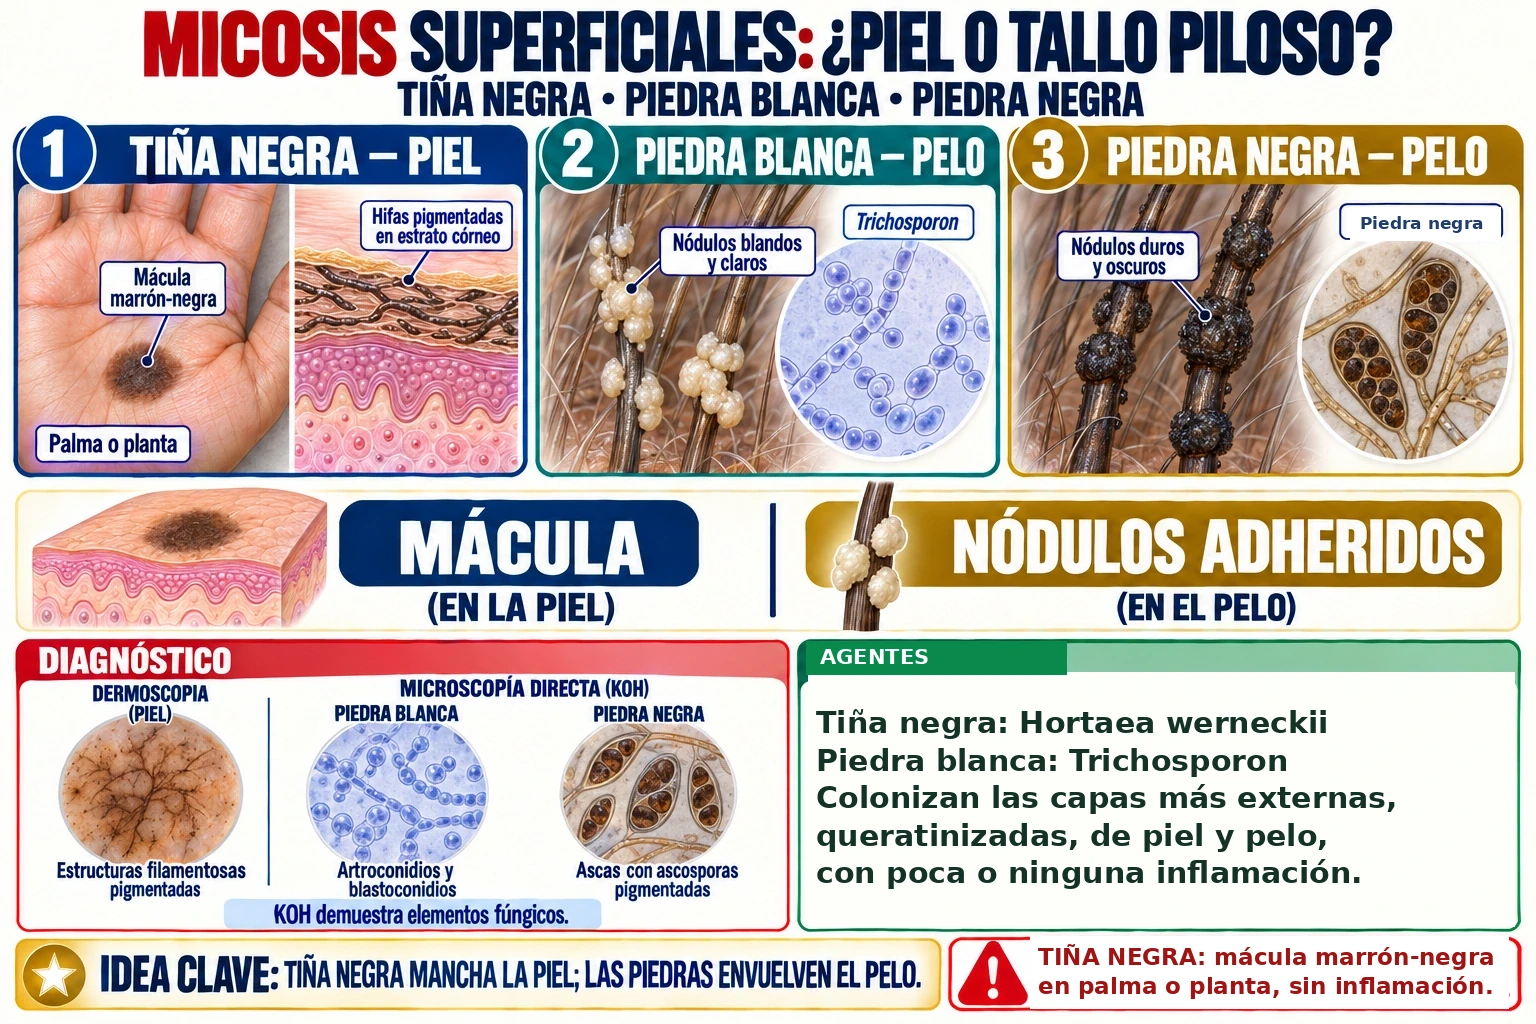
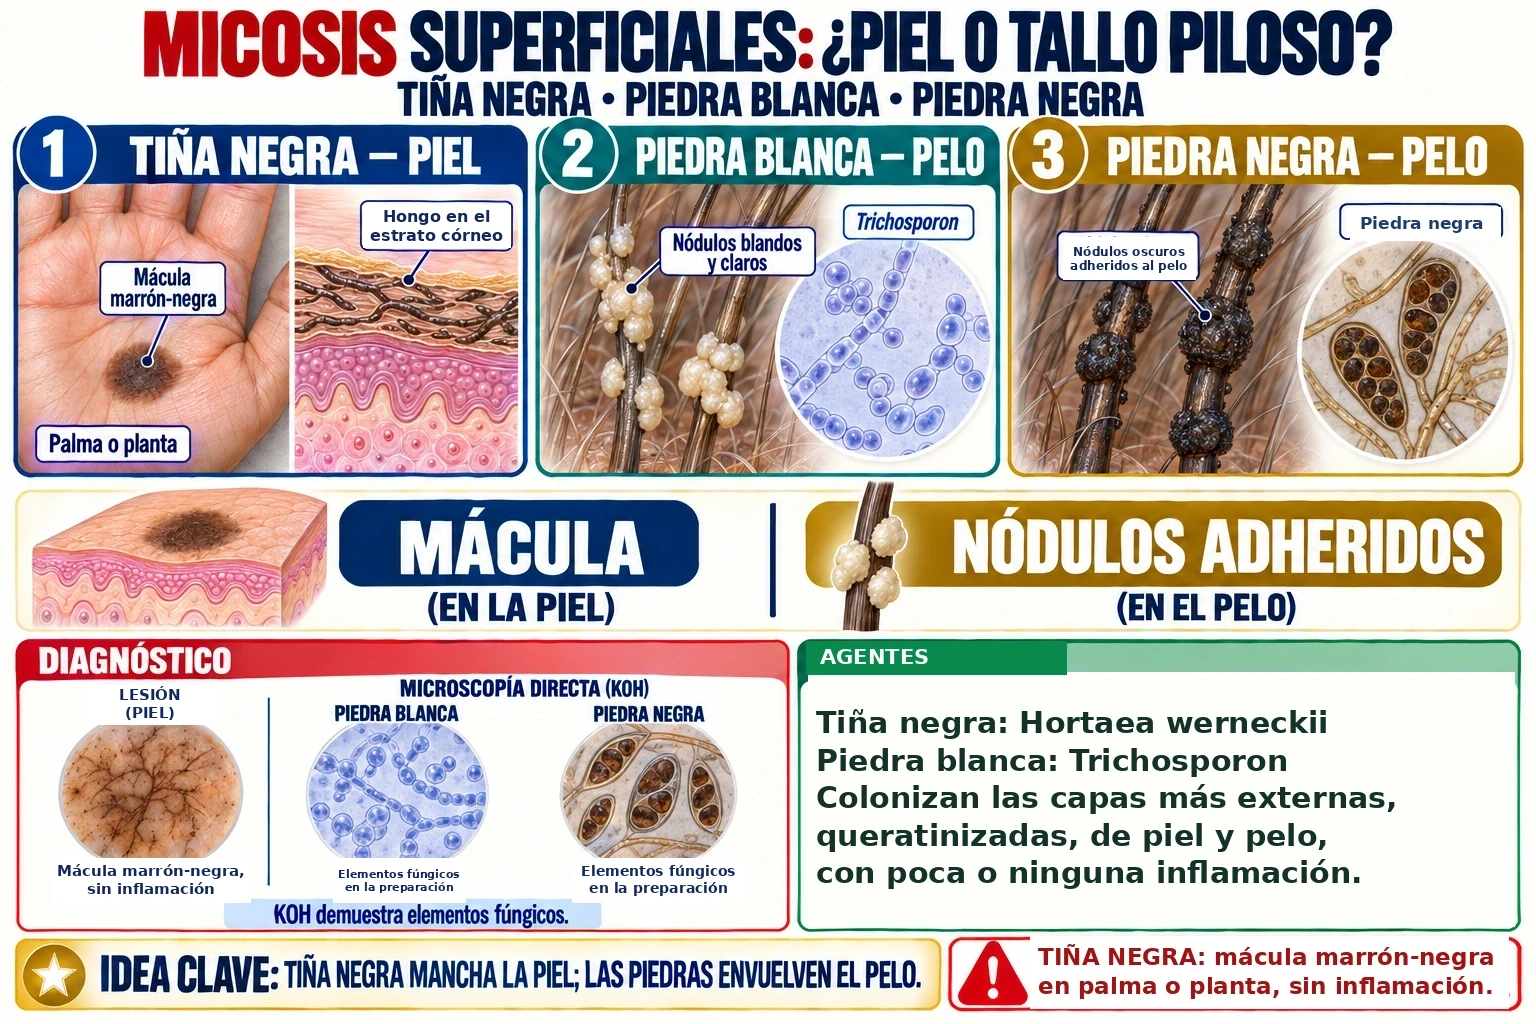
Dermatología: querión sem a conclusão de drenagem; fig. 19 sem piedra negra/dermatoscopia sem fonte; ESCOPO com Tarefa
Retira «el drenaje no forma parte de ese manejo» (o caso do Atlas não a comprova), neutraliza na imagem 19
o agente da piedra negra, as descrições de ascas e hifas e a dermatoscopia, mantendo a imagem; registra a
tarefa em coordination/tasks.json.

Claude-Session: https://claude.ai/code/session_01DevSfM7zdgXiapR5wFfV6N

diff --git a/Repasso-Med-Site--main/Atual - Copia/netlify/functions/materias-privadas/dermatologia.html b/Repasso-Med-Site--main/Atual - Copia/netlify/functions/materias-privadas/dermatologia.html
@@ -2804,7 +2804,7 @@ el tratamiento falló.</p>
 <p>El tratamiento es tópico cuando está localizada —<b>sulfuro de selenio</b> al 2,5 % o champú de <b>ketoconazol</b> al 2 %— y, si es extensa o recurrente, un azol oral (ketoconazol, itraconazol o fluconazol). La terbinafina oral no se recomienda, porque alcanza poca concentración en el estrato córneo. Como tiende a recidivar con el calor, a veces se indica un tratamiento preventivo una vez por mes.</p>
 </div>
 
-<figure class="rmc-fig"><div class="rmc-zoom"><img class="rmc-photo" src="/assets/img/derma/19-micosis-superficiales-piel-pelo.webp" alt="Infografía de las micosis superficiales de piel y tallo piloso: tiña negra (mácula marrón-negra en palma o planta), piedra blanca (nódulos claros en el pelo, Trichosporon) y piedra negra (nódulos oscuros en el pelo), con su diagnóstico por KOH." loading="lazy" decoding="async"></div><figcaption>La figura separa lo que queda <b>en la piel</b> (tiña negra, por <i>Hortaea werneckii</i>: mácula marrón-negra en palma o planta, sin inflamación) de lo que se adhiere <b>al pelo</b> (piedra blanca, por <i>Trichosporon</i>, y piedra negra). Todas son micosis superficiales: colonizan las capas más externas, queratinizadas, de piel y pelo, con poca o ninguna inflamación. La pitiriasis versicolor se explica aparte, en este mismo bloque.</figcaption></figure>
+<figure class="rmc-fig"><div class="rmc-zoom"><img class="rmc-photo" src="/assets/img/derma/19-micosis-superficiales-piel-pelo.webp" alt="Infografía de las micosis superficiales de piel y tallo piloso: tiña negra (mácula marrón-negra en palma o planta), piedra blanca (nódulos claros en el pelo, Trichosporon) y piedra negra (nódulos oscuros en el pelo), con la lesión de piel y la preparación con KOH." loading="lazy" decoding="async"></div><figcaption>La figura separa lo que queda <b>en la piel</b> (tiña negra, por <i>Hortaea werneckii</i>: mácula marrón-negra en palma o planta, sin inflamación) de lo que se adhiere <b>al pelo</b> (piedra blanca, por <i>Trichosporon</i>, y piedra negra). Todas son micosis superficiales: colonizan las capas más externas, queratinizadas, de piel y pelo, con poca o ninguna inflamación. La pitiriasis versicolor se explica aparte, en este mismo bloque.</figcaption></figure>
 
 <div class="rmc-exam">
 <h4>Puntos a dominar de este bloque</h4>
@@ -2867,7 +2867,7 @@ El cirujano propone drenarla. ¿Qué corresponde hacer?</p>
 <button class="reveal-btn" onclick="toggleAnswer(this)">Ver respuesta</button>
 <div class="answer">
 <p><strong>c) Confirmar con KOH y cultivo (micológico y bacteriano) y tratar con antifúngico sistémico: puede ser un querión y no un absceso bacteriano.</strong></p>
-<p>El querión de Celso es la forma <b>inflamatoria de la tiña capitis</b> y supura aunque no sea un absceso bacteriano. Se confirma con <b>examen directo (KOH) y cultivo micológico</b>; el cultivo bacteriano sirve para descartar sobreinfección (<i>S. aureus</i> o estreptococo del grupo A). El tratamiento descrito en la bibliografía es el <b>antifúngico sistémico</b>: el drenaje no forma parte de ese manejo.</p>
+<p>El querión de Celso es la forma <b>inflamatoria de la tiña capitis</b> y supura aunque no sea un absceso bacteriano. Se confirma con <b>examen directo (KOH) y cultivo micológico</b>; el cultivo bacteriano sirve para descartar sobreinfección (<i>S. aureus</i> o estreptococo del grupo A). El tratamiento descrito en la bibliografía es el <b>antifúngico sistémico</b>, una vez confirmado el diagnóstico.</p>
 <p>a) y b) dan por hecho que es un absceso bacteriano, sin confirmar, y no tratan el hongo. d) una inflamación tan intensa puede resolverse sola, pero deja <b>alopecia cicatricial</b>; con tratamiento antifúngico lo habitual es que el pelo vuelva a crecer.</p>
 </div>
 </div>

diff --git a/coordination/source-packs/dermatologia-revisao-integral-2026-10-v1.md b/coordination/source-packs/dermatologia-revisao-integral-2026-10-v1.md
@@ -304,3 +304,20 @@ As imagens 16 e 19 foram editadas só nos recuadros indicados (retoque de texto;
 **Abertura (bloco 01).** Retirada a orientação sobre ordem de estudo: título «Por qué esta materia se aprende al revés» → «La piel se lee: de la lesión al diagnóstico»; «Eso cambia el orden en que conviene estudiar…» → «De ahí una frase clásica que lo resume:»; «Por eso la anatomía va primero: no es un trámite…» → «Por eso la anatomía es la clave de lectura…»; «Por eso la inversión rinde tanto» → «describir bien la lesión rinde tanto»; cartão «La frase de Siemens» sem «Es el orden de estudio de toda la materia» (3 cópias). Nas 13 caixas «Puntos a dominar» saiu a linha «Orden basado en el contenido… y en el peso que cada tema tiene en la bibliografía» (estratégia editorial interna) → «Los puntos que sostienen el bloque.»
 
 **Dados reais (SELECT somente leitura, 23/10):** `dermatologia` 0 grifos, 0 traços, 0 notas.
+
+## (xviii) Fechamento de 23/10 (4.ª rodada) — afirmações sem fonte: fonte permitida ou conclusão retirada
+
+Critério aplicado: **só vale o que um slide da cátedra ou o Fitzpatrick (recorte pp. 607–627 / introdução) sustenta**. Um relato de caso tratado com antifúngico **não** comprova uma regra de conduta.
+
+| afirmação | fonte permitida? | decisão |
+|---|---|---|
+| Querión: «el drenaje no forma parte de ese manejo» (explicação da questão q-derma06-03) | **Não.** O Atlas p. 625 só descreve KOH, cultura micológica e bacteriana e antimicóticos gerais; o caso da fig. 26-45 («não respondeu a antibióticos orais», tratado com terbinafina oral) é um relato, não prova que drenar seja contraindicado nem que «não faça parte» | **conclusão retirada**: a frase agora diz só «El tratamiento descrito en la bibliografía es el antifúngico sistémico, una vez confirmado el diagnóstico». A questão continua com a resposta c) (confirmar com KOH e cultivo e tratar com antifúngico sistémico: sustentada pelo Atlas) e a explicação das alternativas a) e b) («dan por hecho que es un absceso bacteriano, sin confirmar, y no tratan el hongo») |
+| Querión: «no incidir ni drenar» (figura 16) e champú | não | já retirados da imagem em 22/10 |
+| Piedra negra: agente (*Piedraia hortae*), «nódulos duros y oscuros», «ascas con ascosporas pigmentadas» (fig. 19) | **Não** (os guias do Drive e o índice do Fitzpatrick citam tiña negra e piedra blanca/*Trichosporon*; o capítulo não está acessível: o PDF completo não baixa) | **retirados da imagem**: agente trocado por «Piedra negra»; «Nódulos oscuros adheridos al pelo» (só o que o nome já diz); micrografia legendada «Elementos fúngicos en la preparación». A **imagem foi mantida** |
+| Dermatoscopia da tiña negra («Estructuras filamentosas pigmentadas», cabeçalho «Dermoscopia») (fig. 19) | **Não** | **retirada**: cabeçalho «Lesión (piel)» e legenda «Mácula marrón-negra, sin inflamación» (guia do Drive: *H. werneckii* produz manchas marrom ou negras em palmas e plantas, sem inflamação) |
+| «Hifas pigmentadas» e «artroconidios y blastoconidios» (fig. 19) | não localizados em fonte permitida | trocados por «Hongo en el estrato córneo» e «Elementos fúngicos en la preparación» |
+| Alt e legenda da fig. 19 | — | coerentes com a imagem (tiña negra, piedra blanca/*Trichosporon*, piedra negra sem agente; lesão de piel e preparação com KOH) |
+
+**Seguem sem fonte permitida e fora do texto do aluno:** nada além do que foi neutralizado acima. Itens da lista anterior já resolvidos: «raspar el borde» (Atlas pp. 609 e 618), recuadros da fig. 18 (Atlas p. 609), «Hebra» retirado, Wood verdosa/amarillo-anaranjado.
+
+**Registro:** ESCOPO passa a declarar **Tarefa** (`dermatologia-revisao-integral-2026-10-claude2`, em `coordination/tasks.json`, estado NEEDS-AUDIT, sem colisão com `dermatologia-questoes-issue112-r3`).
